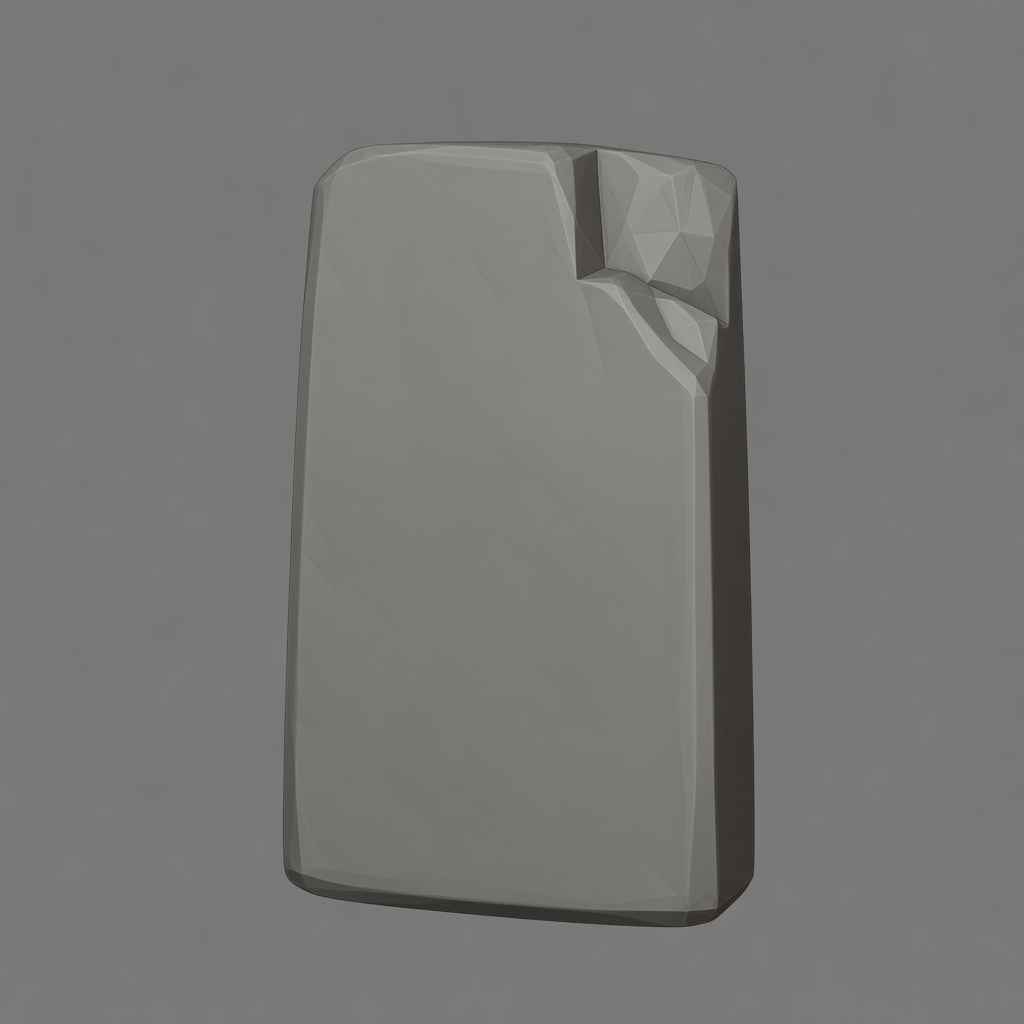
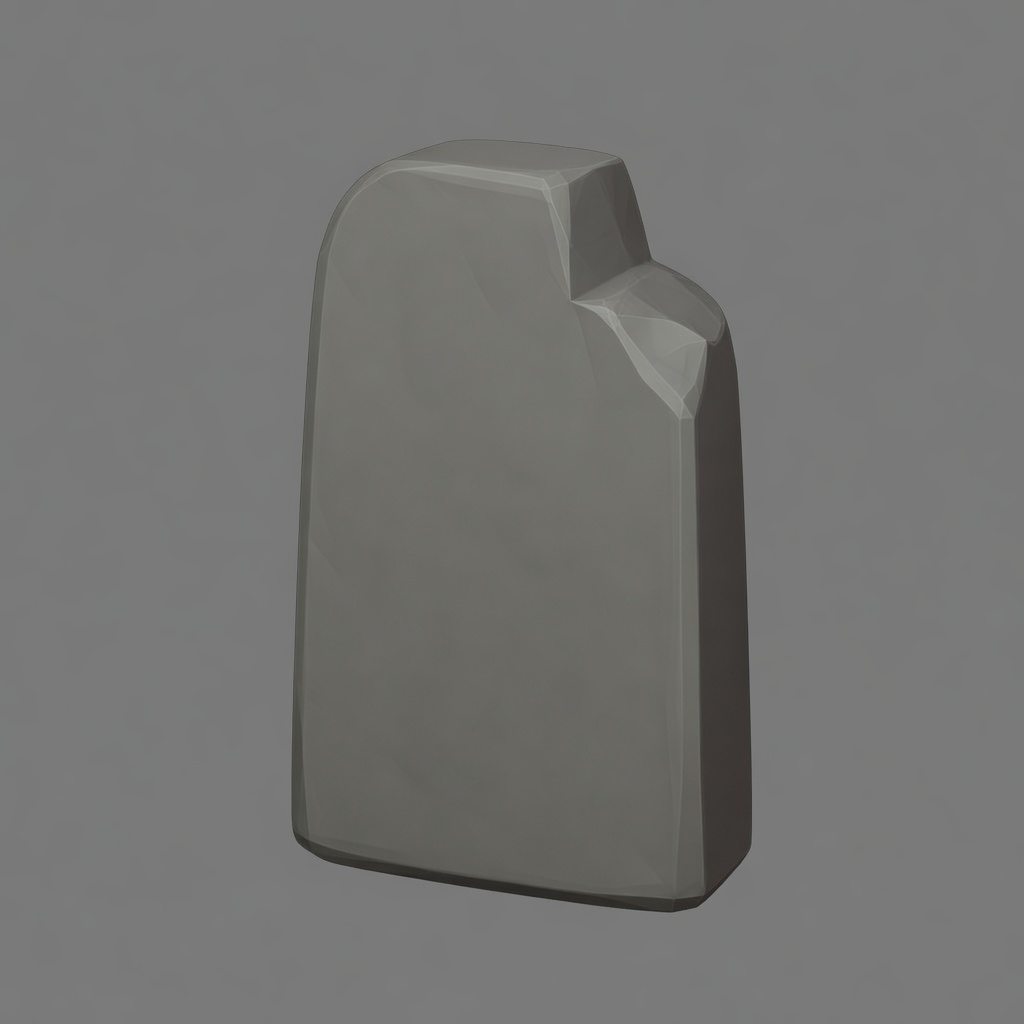
feat: land accepted standing monument for #293

Changed region(s): [[0.25, 0.125, 0.75, 0.9062], [0.3438, 0.1562, 0.375, 0.1875]]

diff --git a/docs/art-ledger.md b/docs/art-ledger.md
@@ -674,7 +674,29 @@ Edit prompt (2026-08-19, Grok Imagine, seeded from slab-a):
 > centered, large in frame. Distinct tall silhouette, still a simple geometric
 > kitbash mass.
 
[1 lines of base64/hex data omitted]
+Fuse pass (2026-08-21, Grok Imagine, seeded from the 2026-08-19 concept). The
+first Studio Smart Mesh output from that file was two islands (2026-08-19);
+a 2026-08-21 retry on the same bytes was three islands, two of them 28–49 mm
+chips in the shoulder notch. The fuse makes the missing chunk a concave bite
+in one volume:
+
+> Keep the same clay-maquette look, medium-gray studio background, even
+> above-front lighting, and 3/4 orthographic view. Fuse the standing monument
+> into one continuous upright stone — no gaps, no separate chips, no second
+> block sitting in the shoulder. The missing upper-right chunk is a concave
+> bite in the same solid volume. One connected stele, slightly wider at the
+> base, blunt rounded top, sitting on the ground. Distinct tall silhouette,
+> still a simple game-kitbash mass.
+
+Isolate pass (same day, seeded from the fuse): drop the ground plane, horizon,
+and cast shadow so Smart Mesh does not emit a floor island.
+
[1 lines of base64/hex data omitted]
+
+Accepted by fol2 on 2026-08-21. Shipping mesh is the fused Studio Pro Export
+GLB at `geometry/shared/standing-monument.glb`. Studio Pro is the generating
+product; API generation is forbidden. Canonical 20-placement capture:
+`docs/reviews/293/shared-standing-monument-20.png`.
 
 ### `map-concepts/act1-ash-trunk-fork.jpg` — 1:1 concept, not a shipping texture
 
